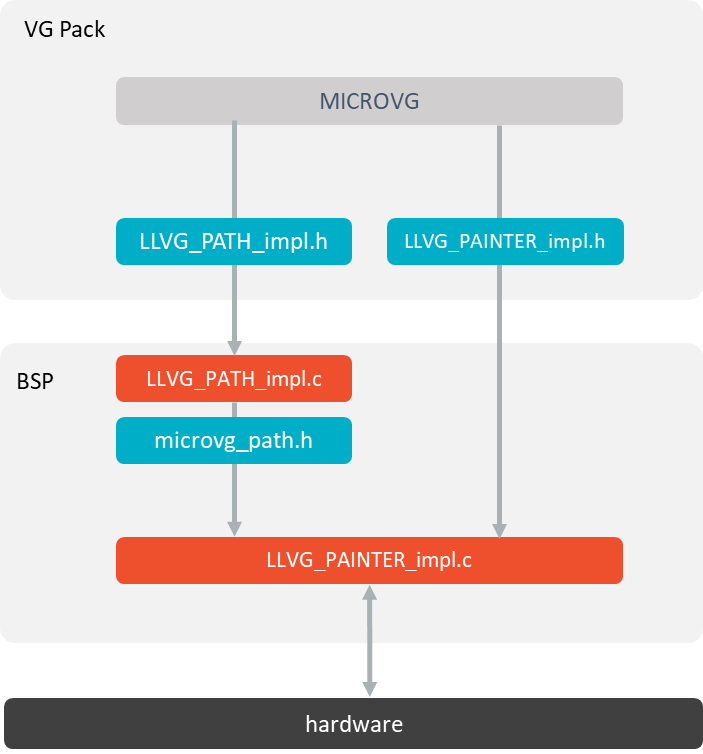
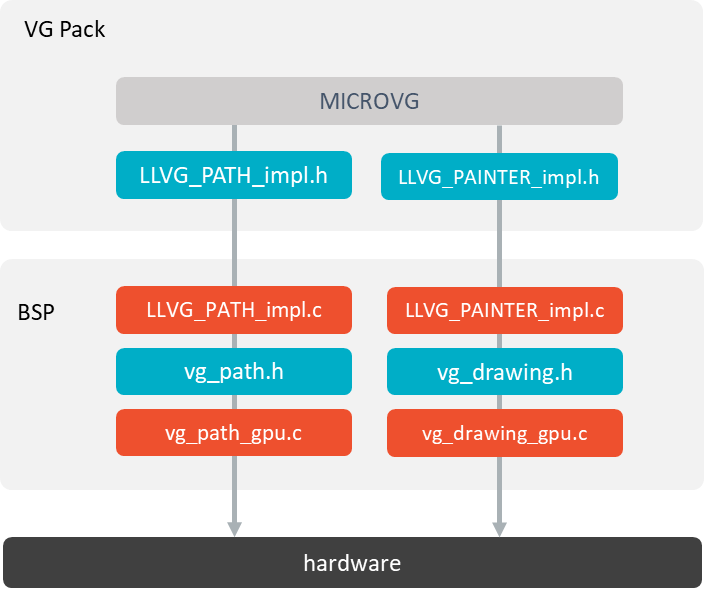
fix llapi vg path

diff --git a/VEEPortingGuide/vgPath.rst b/VEEPortingGuide/vgPath.rst
@@ -63,9 +63,9 @@ There are two separate Abstraction Layer API header files (see :ref:`LLVG-PATH-A
 
 * MicroVG library calls the BSP functions through the header files ``LLVG_PATH_impl.h`` and ``LLVG_PAINTER_impl.h``.
 * The :ref:`C module MicroVG <section_vg_c_module_microvg>` provides a default implementation of ``LLVG_PATH_impl.h``: it manages the path buffer creation and filling, then redirect the command encoding to ``vg_path.h``.
-* This C module also provides an implementation of ``LLVG_PAINTER_impl.c`` that synchronizes the drawing with the MicroUI Graphics Engine and redirects the drawing itself to a third-party drawer.
-* A C module dedicated to a GPU provides an implementation of this drawer and ``vg_path.h``: it encodes the path commands and implements the drawings over the GPU library.
-* The drawer also manages the :ref:`section_vg_gradient`.
+* This C module also provides an implementation of ``LLVG_PAINTER_impl.c`` that synchronizes the drawing with the MicroUI Graphics Engine and redirects the drawing itself to a third-party drawer through ``vg_drawing.h``.
+* A C module dedicated to a GPU provides an implementation of this drawer (``vg_drawing_gpu.c``) that implements the drawings over the GPU library (it also manages the :ref:`section_vg_gradient`).
+* This dedicated GPU C module provides an implementation of ``vg_path.h`` (``vg_path_gpu.c``) that encodes the path commands.
 * These files are automatically copied in the BSP project when fetching the C modules during the VEE Port build.
 
 .. _VectorGraphicsPainter: https://repository.microej.com/javadoc/microej_5.x/apis/ej/microvg/VectorGraphicsPainter.html
